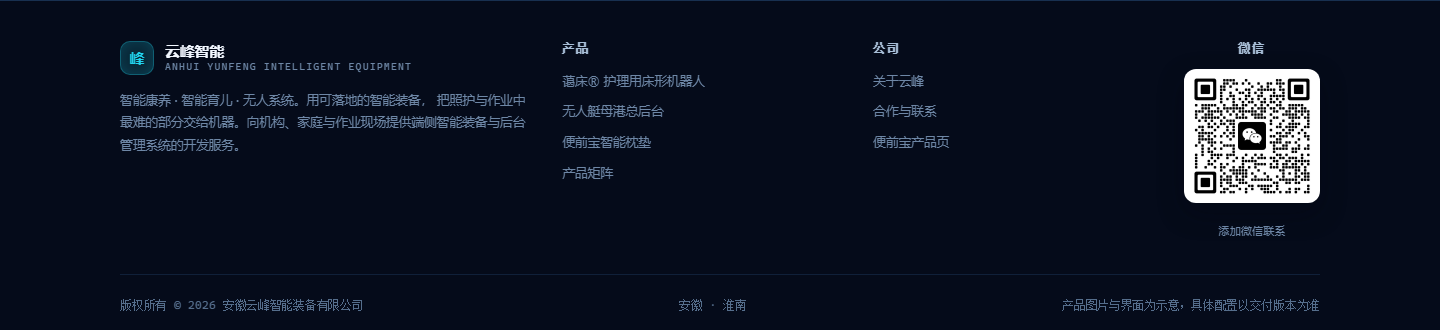
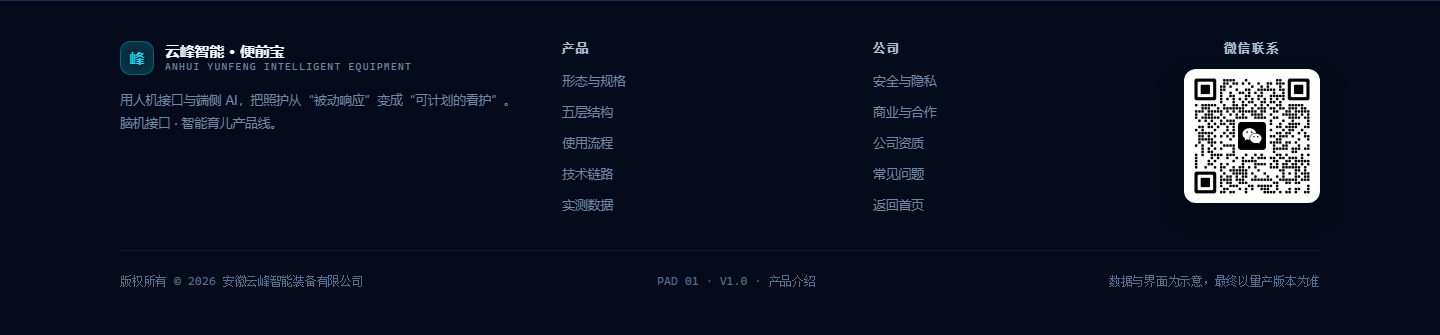
about页面二维码位置再次调整

diff --git a/index.css b/index.css
@@ -641,57 +641,3 @@ a.contact-card__v:hover { color: var(--cyan); text-decoration: none; }
   .baby-stat b { font-size: 20px; }
   .hero-note { font-size: 9.5px; line-height: 1.7; }
 }
-
-/* ---------- 页脚微信二维码 ---------- */
-.footer__top--home {
-  grid-template-columns: 1.25fr .85fr .85fr auto;
-}
-
-.footer__wx {
-  justify-self: end;
-  text-align: center;
-}
-.footer__wx h4 { margin-bottom: 12px; }
-
-.wx-card {
-  display: inline-block;
-  padding: 8px;
-  border-radius: 12px;
-  background: #fff;
-  box-shadow: 0 10px 26px rgba(2, 6, 16, .35);
-  line-height: 0;
-}
-.wx-card img {
-  display: block;
-  width: 120px;
-  height: auto;
-  border-radius: 6px;
-}
-
-.wx-note {
-  margin-top: 10px;
-  font-size: 11px;
-  color: var(--dim);
-  text-align: center;
-}
-
-@media (max-width: 900px) {
-  .footer__top--home { grid-template-columns: 1fr 1fr; }
-  .footer__top--home > div:first-child { grid-column: 1 / -1; }
-
-  .footer__wx {
-    grid-column: 1 / -1;
-    justify-self: start;
-    display: block;
-    text-align: left;
-  }
-  .footer__wx h4 { margin: 0 0 12px; }
-  .wx-note { margin-top: 10px; text-align: center; }
-}
-
-@media (max-width: 600px) {
-  .footer__top--home { grid-template-columns: 1fr; }
-  .footer__wx { display: block; }
-  .footer__wx h4 { margin-bottom: 12px; }
-  .wx-note { margin-top: 10px; text-align: center; }
-}

diff --git a/about.css b/about.css
@@ -1660,3 +1660,46 @@ tbody tr:hover td { background: rgba(34, 211, 238, .035); }
   .sec-head h2, .hero h1 { color: #111; -webkit-text-fill-color: #111; }
   .kpi__value, .stat__num { color: #111; }
 }
+
+/* ---------- 页脚微信二维码（about / index 共用） ---------- */
+.footer__top--qr {
+  grid-template-columns: 1.25fr .85fr .85fr auto;
+}
+
+.footer__wx {
+  justify-self: end;
+  text-align: center;
+}
+.footer__wx h4 { margin-bottom: 12px; }
+
+.wx-card {
+  display: inline-block;
+  padding: 8px;
+  border-radius: 12px;
+  background: #fff;
+  box-shadow: 0 10px 26px rgba(2, 6, 16, .35);
+  line-height: 0;
+}
+.wx-card img {
+  display: block;
+  width: 120px;
+  height: auto;
+  border-radius: 6px;
+}
+
+@media (max-width: 900px) {
+  .footer__top--qr { grid-template-columns: 1fr 1fr; }
+  .footer__top--qr > div:first-child { grid-column: 1 / -1; }
+
+  .footer__wx {
+    grid-column: 1 / -1;
+    justify-self: start;
+    display: block;
+    text-align: left;
+  }
+  .footer__wx h4 { margin: 0 0 12px; }
+}
+
+@media (max-width: 600px) {
+  .footer__top--qr { grid-template-columns: 1fr; }
+}

diff --git a/about.html b/about.html
@@ -1330,7 +1330,7 @@
 
     <footer class="footer">
         <div class="wrap">
-            <div class="footer__top">
+            <div class="footer__top footer__top--qr">
                 <div>
                     <a class="brand" href="index.html">
                         <span class="brand__mark" aria-hidden="true">峰</span>
@@ -1369,10 +1369,10 @@
 
                 <div class="footer__wx">
                     <h4>微信联系</h4>
-                    <ul class="wx-card">
+                    <div class="wx-card">
                         <img src="assets/wechat-qr.png" width="480" height="472"
                              alt="云峰智能微信联系二维码">
-                    </ul>
+                    </div>
                 </div>
             </div>
             <div class="footer__bottom">

diff --git a/index.html b/index.html
@@ -522,7 +522,7 @@
 
     <footer class="footer">
         <div class="wrap">
-            <div class="footer__top footer__top--home">
+            <div class="footer__top footer__top--qr">
                 <div>
                     <a class="brand" href="index.html">
                         <span class="brand__mark" aria-hidden="true">峰</span>
